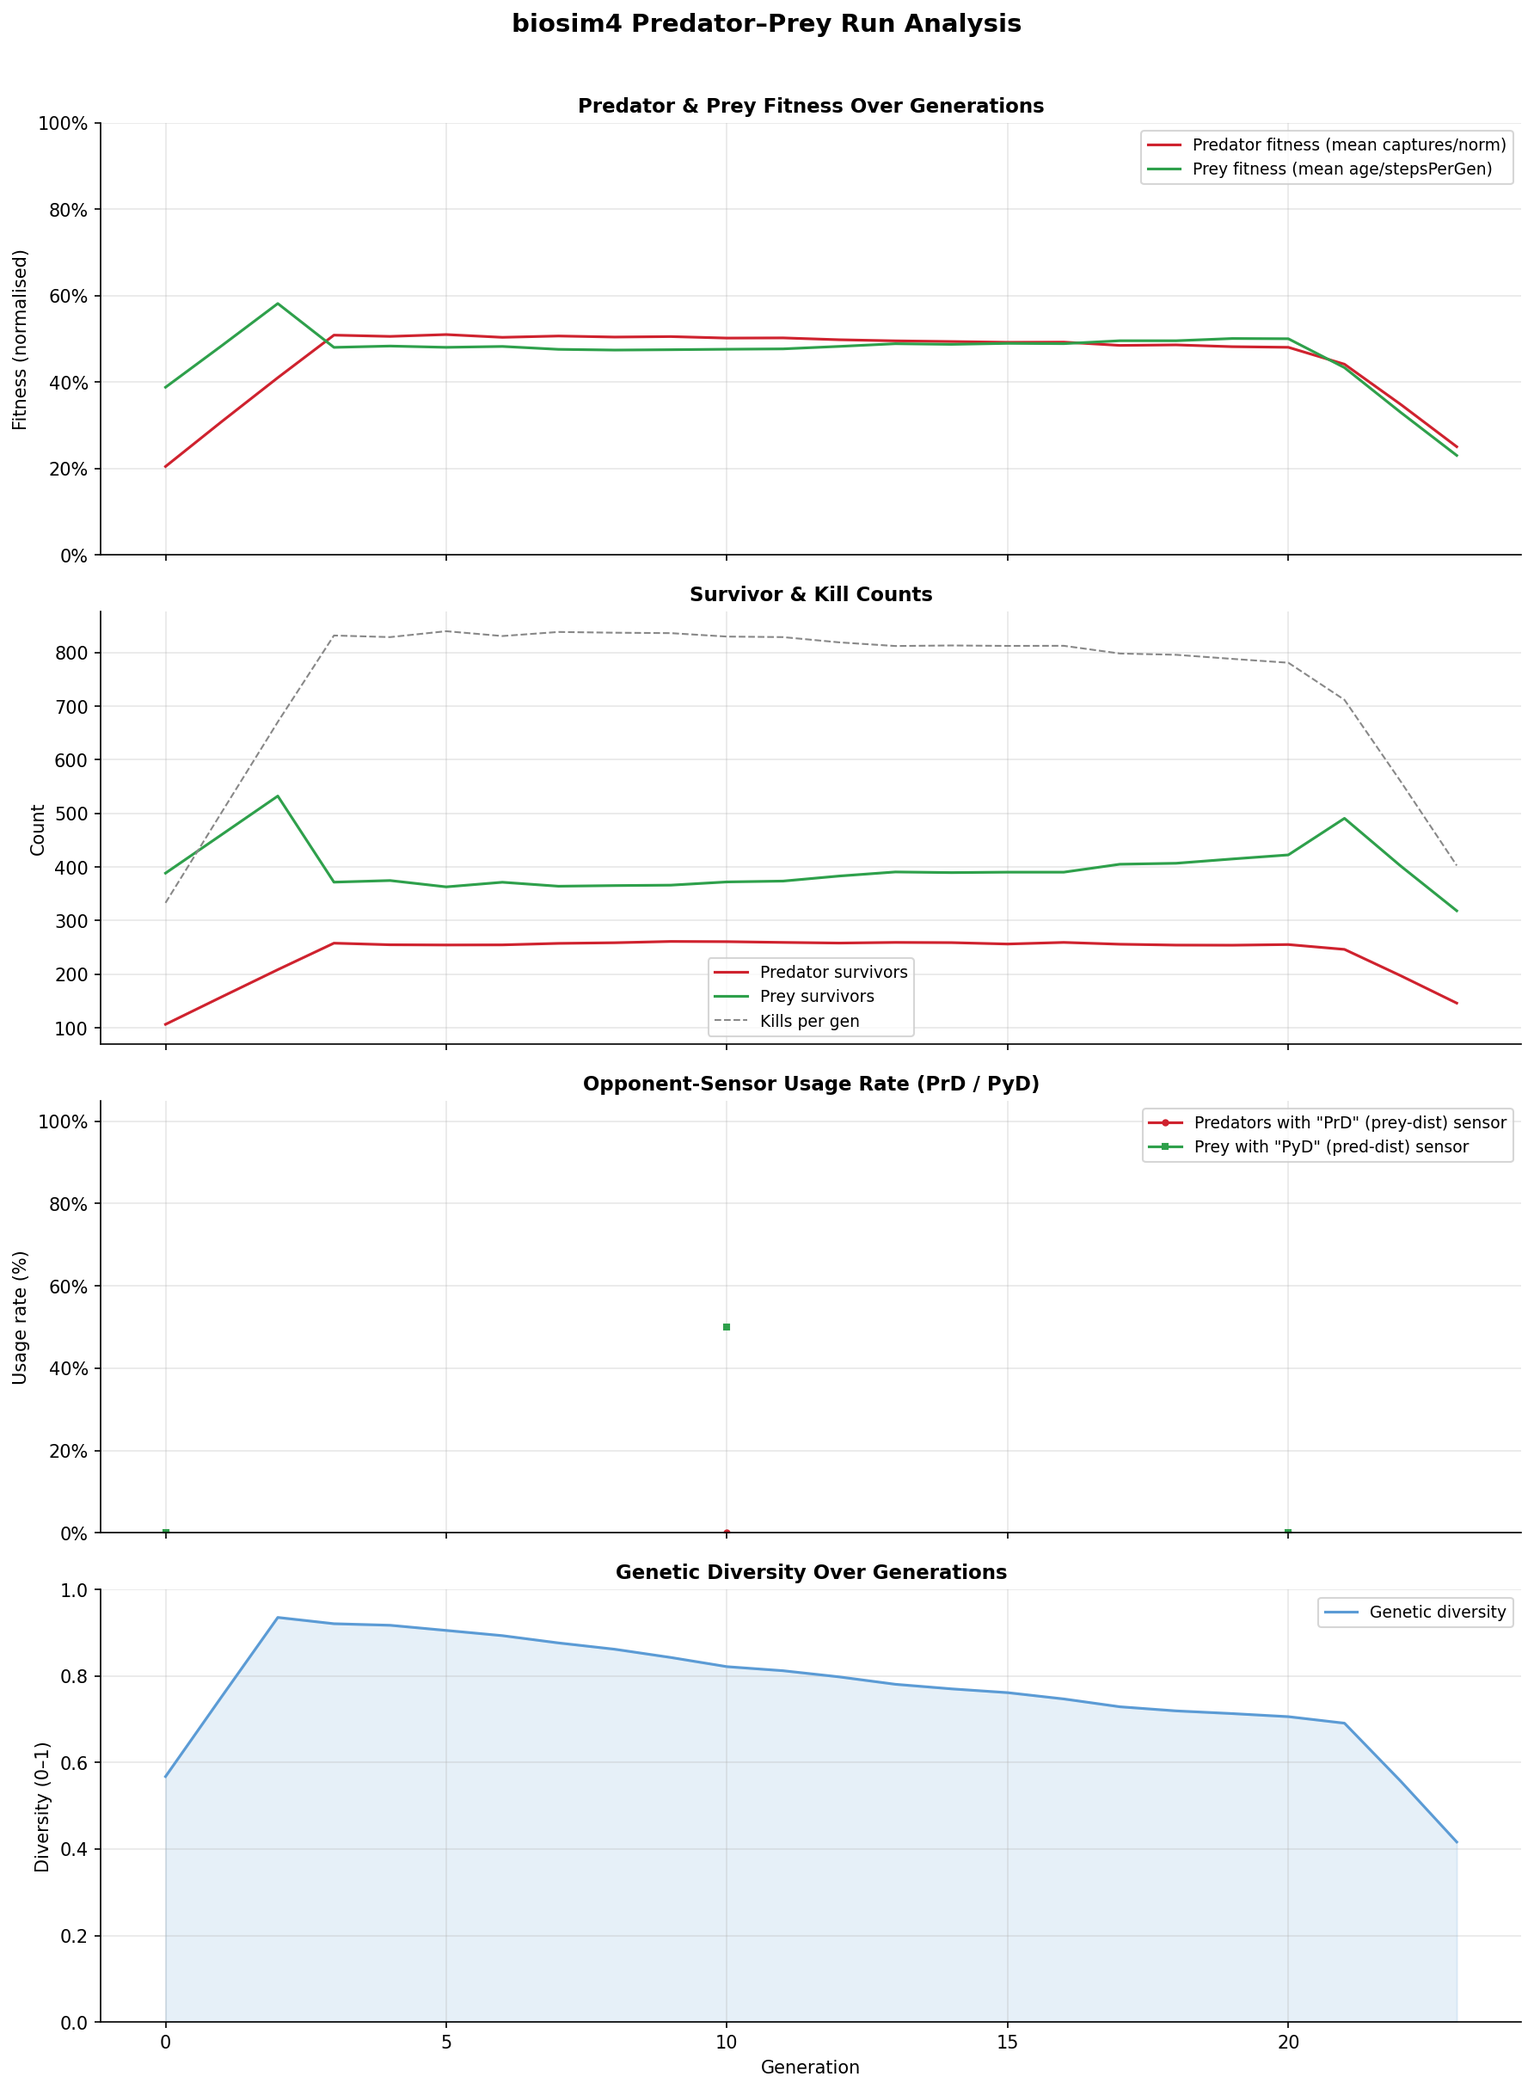
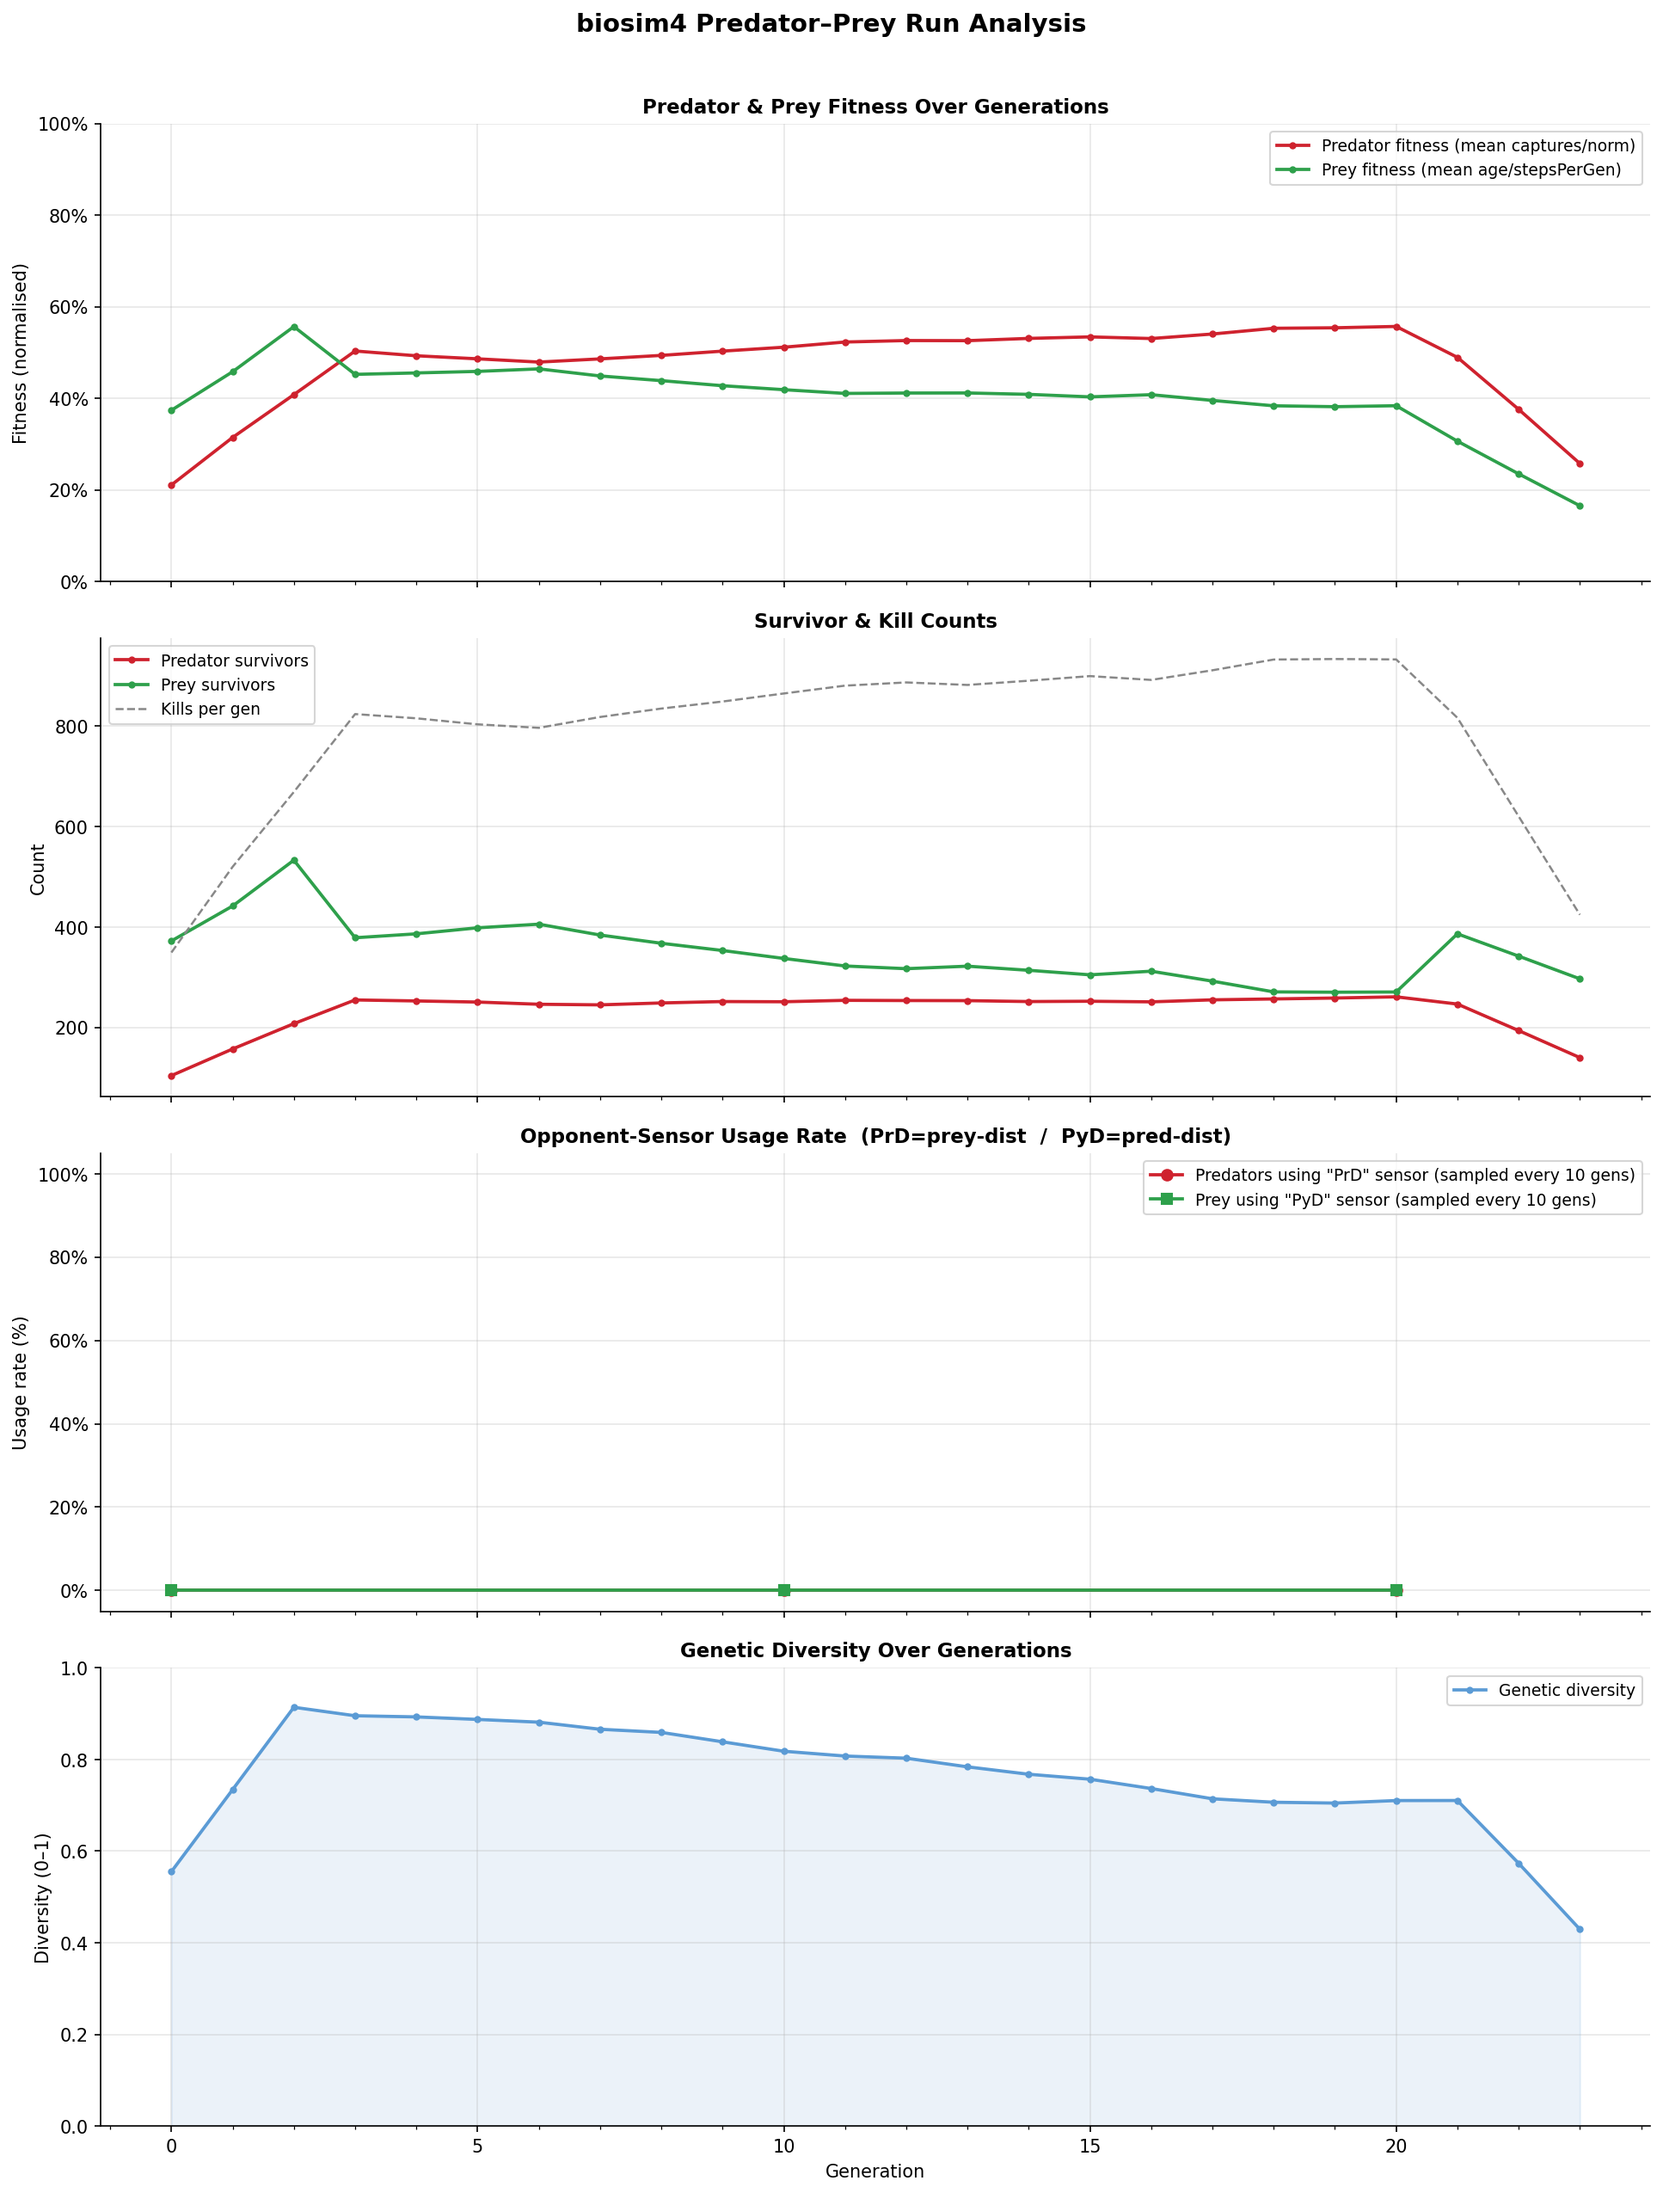
cleaned up graphs

diff --git a/tools/analyse.py b/tools/analyse.py
@@ -134,23 +134,35 @@ prey_sensor_rate = usage_series(prey_usage, gen)
 has_sensor_data  = not np.all(np.isnan(pred_sensor_rate))
 
 # ── 3. Plot ───────────────────────────────────────────────────────────────────
+W = args.smooth
+MARKER_KW  = dict(marker='o', ms=3, markevery=1)   # small dot on every point
+PRED_COLOR = '#cf222e'
+PREY_COLOR = '#2ea04b'
+
 nrows = 2 + (1 if has_fitness else 0) + (1 if has_sensor_data else 0)
-fig, axes = plt.subplots(nrows, 1, figsize=(12, 4 * nrows), sharex=True)
+fig, axes = plt.subplots(nrows, 1, figsize=(13, 4.2 * nrows), sharex=True)
 fig.suptitle('biosim4 Predator–Prey Run Analysis', fontsize=14, fontweight='bold', y=1.01)
 ax_iter = iter(axes if nrows > 1 else [axes])
 
-W = args.smooth
+def set_gen_xticks(ax):
+    """Integer ticks every 1 generation up to 20, then every 5."""
+    step = 1 if len(gen) <= 20 else 5
+    ax.xaxis.set_major_locator(mticker.MultipleLocator(step))
+    ax.xaxis.set_minor_locator(mticker.MultipleLocator(1))
 
 # ── subplot: Fitness ──────────────────────────────────────────────────────────
 if has_fitness:
     ax = next(ax_iter)
     pf = np.array([v if v is not None else np.nan for v in pred_fitness])
     yf = np.array([v if v is not None else np.nan for v in prey_fitness])
-    ax.plot(gen, smooth(pf, W), color='#cf222e', lw=1.5, label='Predator fitness (mean captures/norm)')
-    ax.plot(gen, smooth(yf, W), color='#2ea04b', lw=1.5, label='Prey fitness (mean age/stepsPerGen)')
+    ax.plot(gen, smooth(pf, W), color=PRED_COLOR, lw=1.8,
+            label='Predator fitness (mean captures/norm)', **MARKER_KW)
+    ax.plot(gen, smooth(yf, W), color=PREY_COLOR, lw=1.8,
+            label='Prey fitness (mean age/stepsPerGen)', **MARKER_KW)
     ax.set_ylim(0, 1)
     ax.yaxis.set_major_formatter(mticker.PercentFormatter(xmax=1.0))
     ax.legend(fontsize=9)
+    set_gen_xticks(ax)
     fmt_ax(ax, 'Fitness (normalised)', 'Predator & Prey Fitness Over Generations')
 
 # ── subplot: Survivor counts ──────────────────────────────────────────────────
@@ -158,33 +170,53 @@ ax = next(ax_iter)
 if has_fitness and any(v is not None for v in pred_survivors):
     ps = np.array([v if v is not None else np.nan for v in pred_survivors])
     ys = np.array([v if v is not None else np.nan for v in prey_survivors])
-    ax.plot(gen, smooth(ps, W), color='#cf222e', lw=1.5, label='Predator survivors')
-    ax.plot(gen, smooth(ys, W), color='#2ea04b', lw=1.5, label='Prey survivors')
+    ax.plot(gen, smooth(ps, W), color=PRED_COLOR, lw=1.8,
+            label='Predator survivors', **MARKER_KW)
+    ax.plot(gen, smooth(ys, W), color=PREY_COLOR, lw=1.8,
+            label='Prey survivors', **MARKER_KW)
 else:
-    ax.plot(gen, smooth(survivors, W), color='steelblue', lw=1.5, label='Total survivors')
-ax.plot(gen, smooth(murders, W), color='#888888', lw=1.0, ls='--', label='Kills per gen')
+    ax.plot(gen, smooth(survivors, W), color='steelblue', lw=1.8,
+            label='Total survivors', **MARKER_KW)
+ax.plot(gen, smooth(np.array(murders, dtype=float), W), color='#888888',
+        lw=1.2, ls='--', label='Kills per gen')
 ax.legend(fontsize=9)
+set_gen_xticks(ax)
 fmt_ax(ax, 'Count', 'Survivor & Kill Counts')
 
 # ── subplot: Sensor usage ─────────────────────────────────────────────────────
 if has_sensor_data:
     ax = next(ax_iter)
-    ax.plot(gen, pred_sensor_rate * 100, color='#cf222e', lw=1.5,
-            marker='o', ms=3, label=f'Predators with "{PRED_SENSOR}" (prey-dist) sensor')
-    ax.plot(gen, prey_sensor_rate * 100, color='#2ea04b', lw=1.5,
-            marker='s', ms=3, label=f'Prey with "{PREY_SENSOR}" (pred-dist) sensor')
-    ax.set_ylim(0, 105)
+    # Only plot generations where we actually have .txt data (drop NaN gaps).
+    pred_mask = np.isfinite(pred_sensor_rate)
+    prey_mask = np.isfinite(prey_sensor_rate)
+    sampled_gens = sorted(set(gen[pred_mask]) | set(gen[prey_mask]))
+    note = f'(sampled every {sampled_gens[1]-sampled_gens[0]} gens)' \
+           if len(sampled_gens) >= 2 else '(sparse samples)'
+    if pred_mask.any():
+        ax.plot(gen[pred_mask], pred_sensor_rate[pred_mask] * 100,
+                color=PRED_COLOR, lw=1.8, marker='o', ms=6,
+                label=f'Predators using "{PRED_SENSOR}" sensor {note}')
+    if prey_mask.any():
+        ax.plot(gen[prey_mask], prey_sensor_rate[prey_mask] * 100,
+                color=PREY_COLOR, lw=1.8, marker='s', ms=6,
+                label=f'Prey using "{PREY_SENSOR}" sensor {note}')
+    ax.set_ylim(-5, 105)
     ax.yaxis.set_major_formatter(mticker.PercentFormatter())
+    ax.set_xticks(sampled_gens)
     ax.legend(fontsize=9)
-    fmt_ax(ax, 'Usage rate (%)', f'Opponent-Sensor Usage Rate ({PRED_SENSOR} / {PREY_SENSOR})')
+    fmt_ax(ax, 'Usage rate (%)',
+           f'Opponent-Sensor Usage Rate  ({PRED_SENSOR}=prey-dist  /  {PREY_SENSOR}=pred-dist)')
 
 # ── subplot: Genetic diversity ────────────────────────────────────────────────
 ax = next(ax_iter)
-ax.plot(gen, smooth(diversity, W), color='#5b9bd5', lw=1.5, label='Genetic diversity')
-ax.fill_between(gen, smooth(diversity, W), alpha=0.15, color='#5b9bd5')
+div = np.array(diversity, dtype=float)
+ax.plot(gen, smooth(div, W), color='#5b9bd5', lw=1.8,
+        label='Genetic diversity', **MARKER_KW)
+ax.fill_between(gen, smooth(div, W), alpha=0.12, color='#5b9bd5')
 ax.set_ylim(0, 1)
 ax.legend(fontsize=9)
 ax.set_xlabel('Generation', fontsize=10)
+set_gen_xticks(ax)
 fmt_ax(ax, 'Diversity (0–1)', 'Genetic Diversity Over Generations')
 
 # ── Save ──────────────────────────────────────────────────────────────────────
